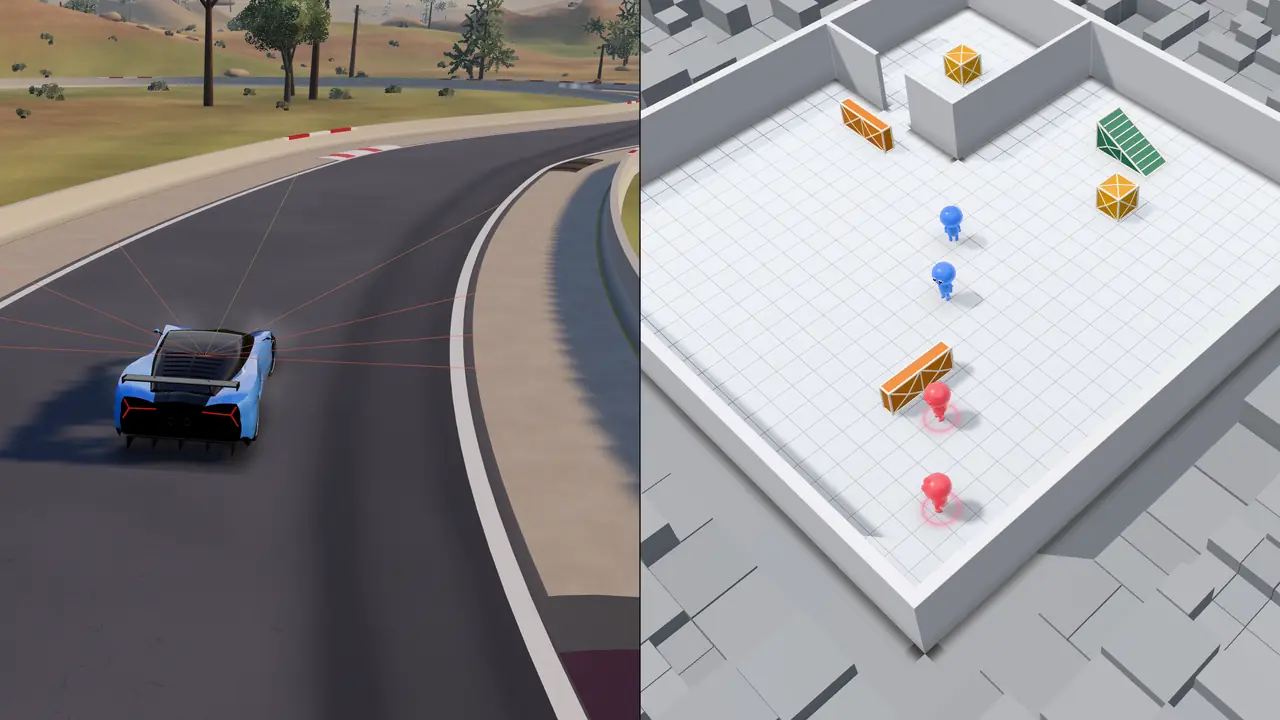
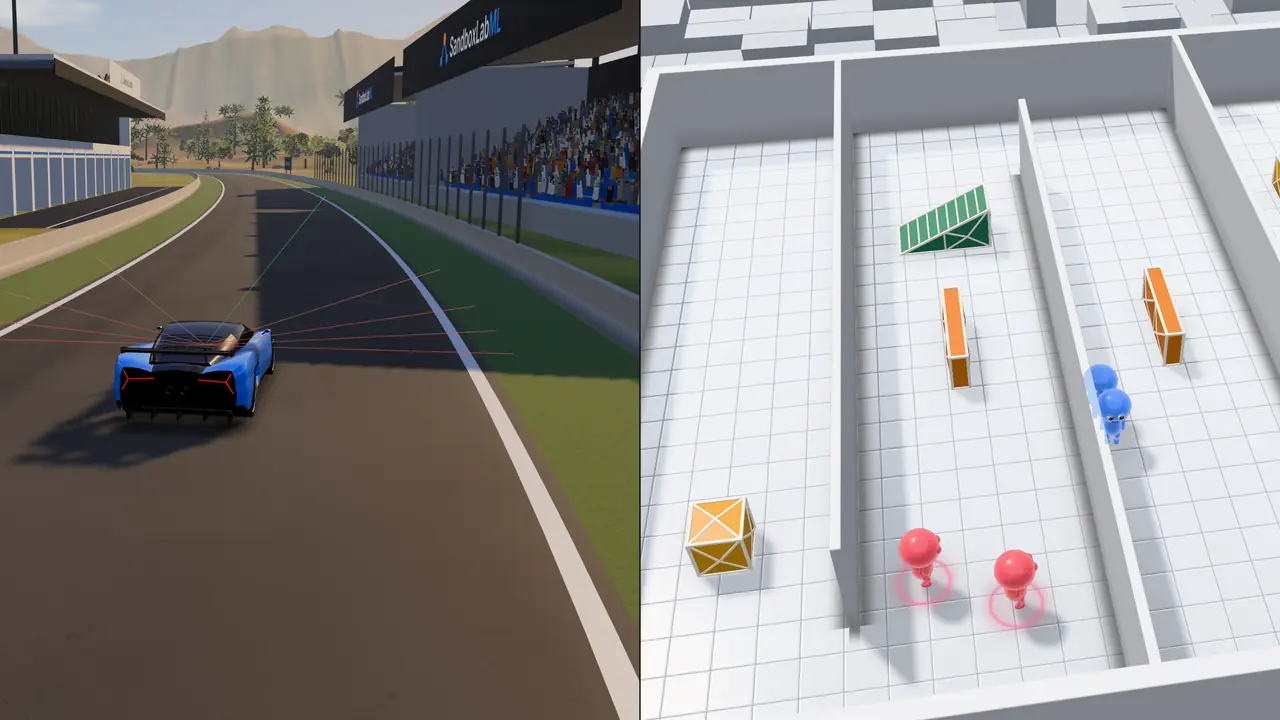
Add 4:3 hero posters and recapture all three shapes
A 4:3 window cropped the wide poster so hard that the car was cut in
half, and machines that never go live keep that frame. Windows no wider
than 3:2 now get frames shot at 4:3, and the capture script takes them
with the wide and portrait ones. All posters are recaptured with the new
cameras, the pale city and the graded racing pane, so the live scenes
fade in over a matching frame.

Claude-Session: https://claude.ai/code/session_01EmVWnswqzbVyRx3Yqy4QPc

diff --git a/src/features/landing/hero/HeroPoster.tsx b/src/features/landing/hero/HeroPoster.tsx
@@ -1,8 +1,10 @@
 /**
  * Still frames of the hero's live scenes, captured from the real renderer
  * by scripts/capture-hero-poster.mjs. Wide screens pick one by the width
- * it is drawn at and show the scenes side by side; portrait screens,
- * phones and tablets alike, get a portrait frame with them stacked.
+ * it is drawn at and show the scenes side by side. A squarer window (4:3,
+ * 5:4) gets frames shot at that shape, so cropping a wide frame never cuts
+ * the car in half; portrait screens, phones and tablets alike, get a
+ * portrait frame with the scenes stacked.
  */
 export const POSTER = {
   wide: [
@@ -10,8 +12,16 @@ export const POSTER = {
     { src: '/hero/poster-1920.webp', width: 1920 },
     { src: '/hero/poster-2560.webp', width: 2560 },
   ],
+  standard: [
+    { src: '/hero/poster-4x3-1280.webp', width: 1280 },
+    { src: '/hero/poster-4x3-1920.webp', width: 1920 },
+  ],
   portrait: '/hero/poster-portrait.webp',
 } as const;
+
+/** Windows no wider than 3:2 take the 4:3 frames: a 4:3 hero crops a 16:9 frame too hard at the sides. */
+const STANDARD_MEDIA = '(orientation: landscape) and (max-aspect-ratio: 3/2)';
+const srcSet = (frames: readonly { src: string; width: number }[]) => frames.map((p) => `${p.src} ${p.width}w`).join(', ');
 
 /**
  * The width the wide poster is drawn at. It covers the hero, which is a
@@ -19,6 +29,7 @@ export const POSTER = {
  * window, and the browser must pick the file for that width, not 100vw.
  */
 const WIDE_SIZES = 'max(100vw, calc((100vh - 3rem) * 16 / 9))';
+const STANDARD_SIZES = 'max(100vw, calc((100vh - 3rem) * 4 / 3))';
 
 /**
  * The hero's first paint: a still of the live scenes, sent with high
@@ -31,10 +42,11 @@ export function HeroPoster() {
   return (
     <picture>
       <source media="(orientation: portrait)" srcSet={POSTER.portrait} type="image/webp" />
+      <source media={STANDARD_MEDIA} srcSet={srcSet(POSTER.standard)} sizes={STANDARD_SIZES} type="image/webp" />
       {/* A plain img: these files are already sized and compressed, and the page must not depend on an image server. */}
       <img
         src={POSTER.wide[1].src}
-        srcSet={POSTER.wide.map((p) => `${p.src} ${p.width}w`).join(', ')}
+        srcSet={srcSet(POSTER.wide)}
         sizes={WIDE_SIZES}
         alt=""
         fetchPriority="high"
